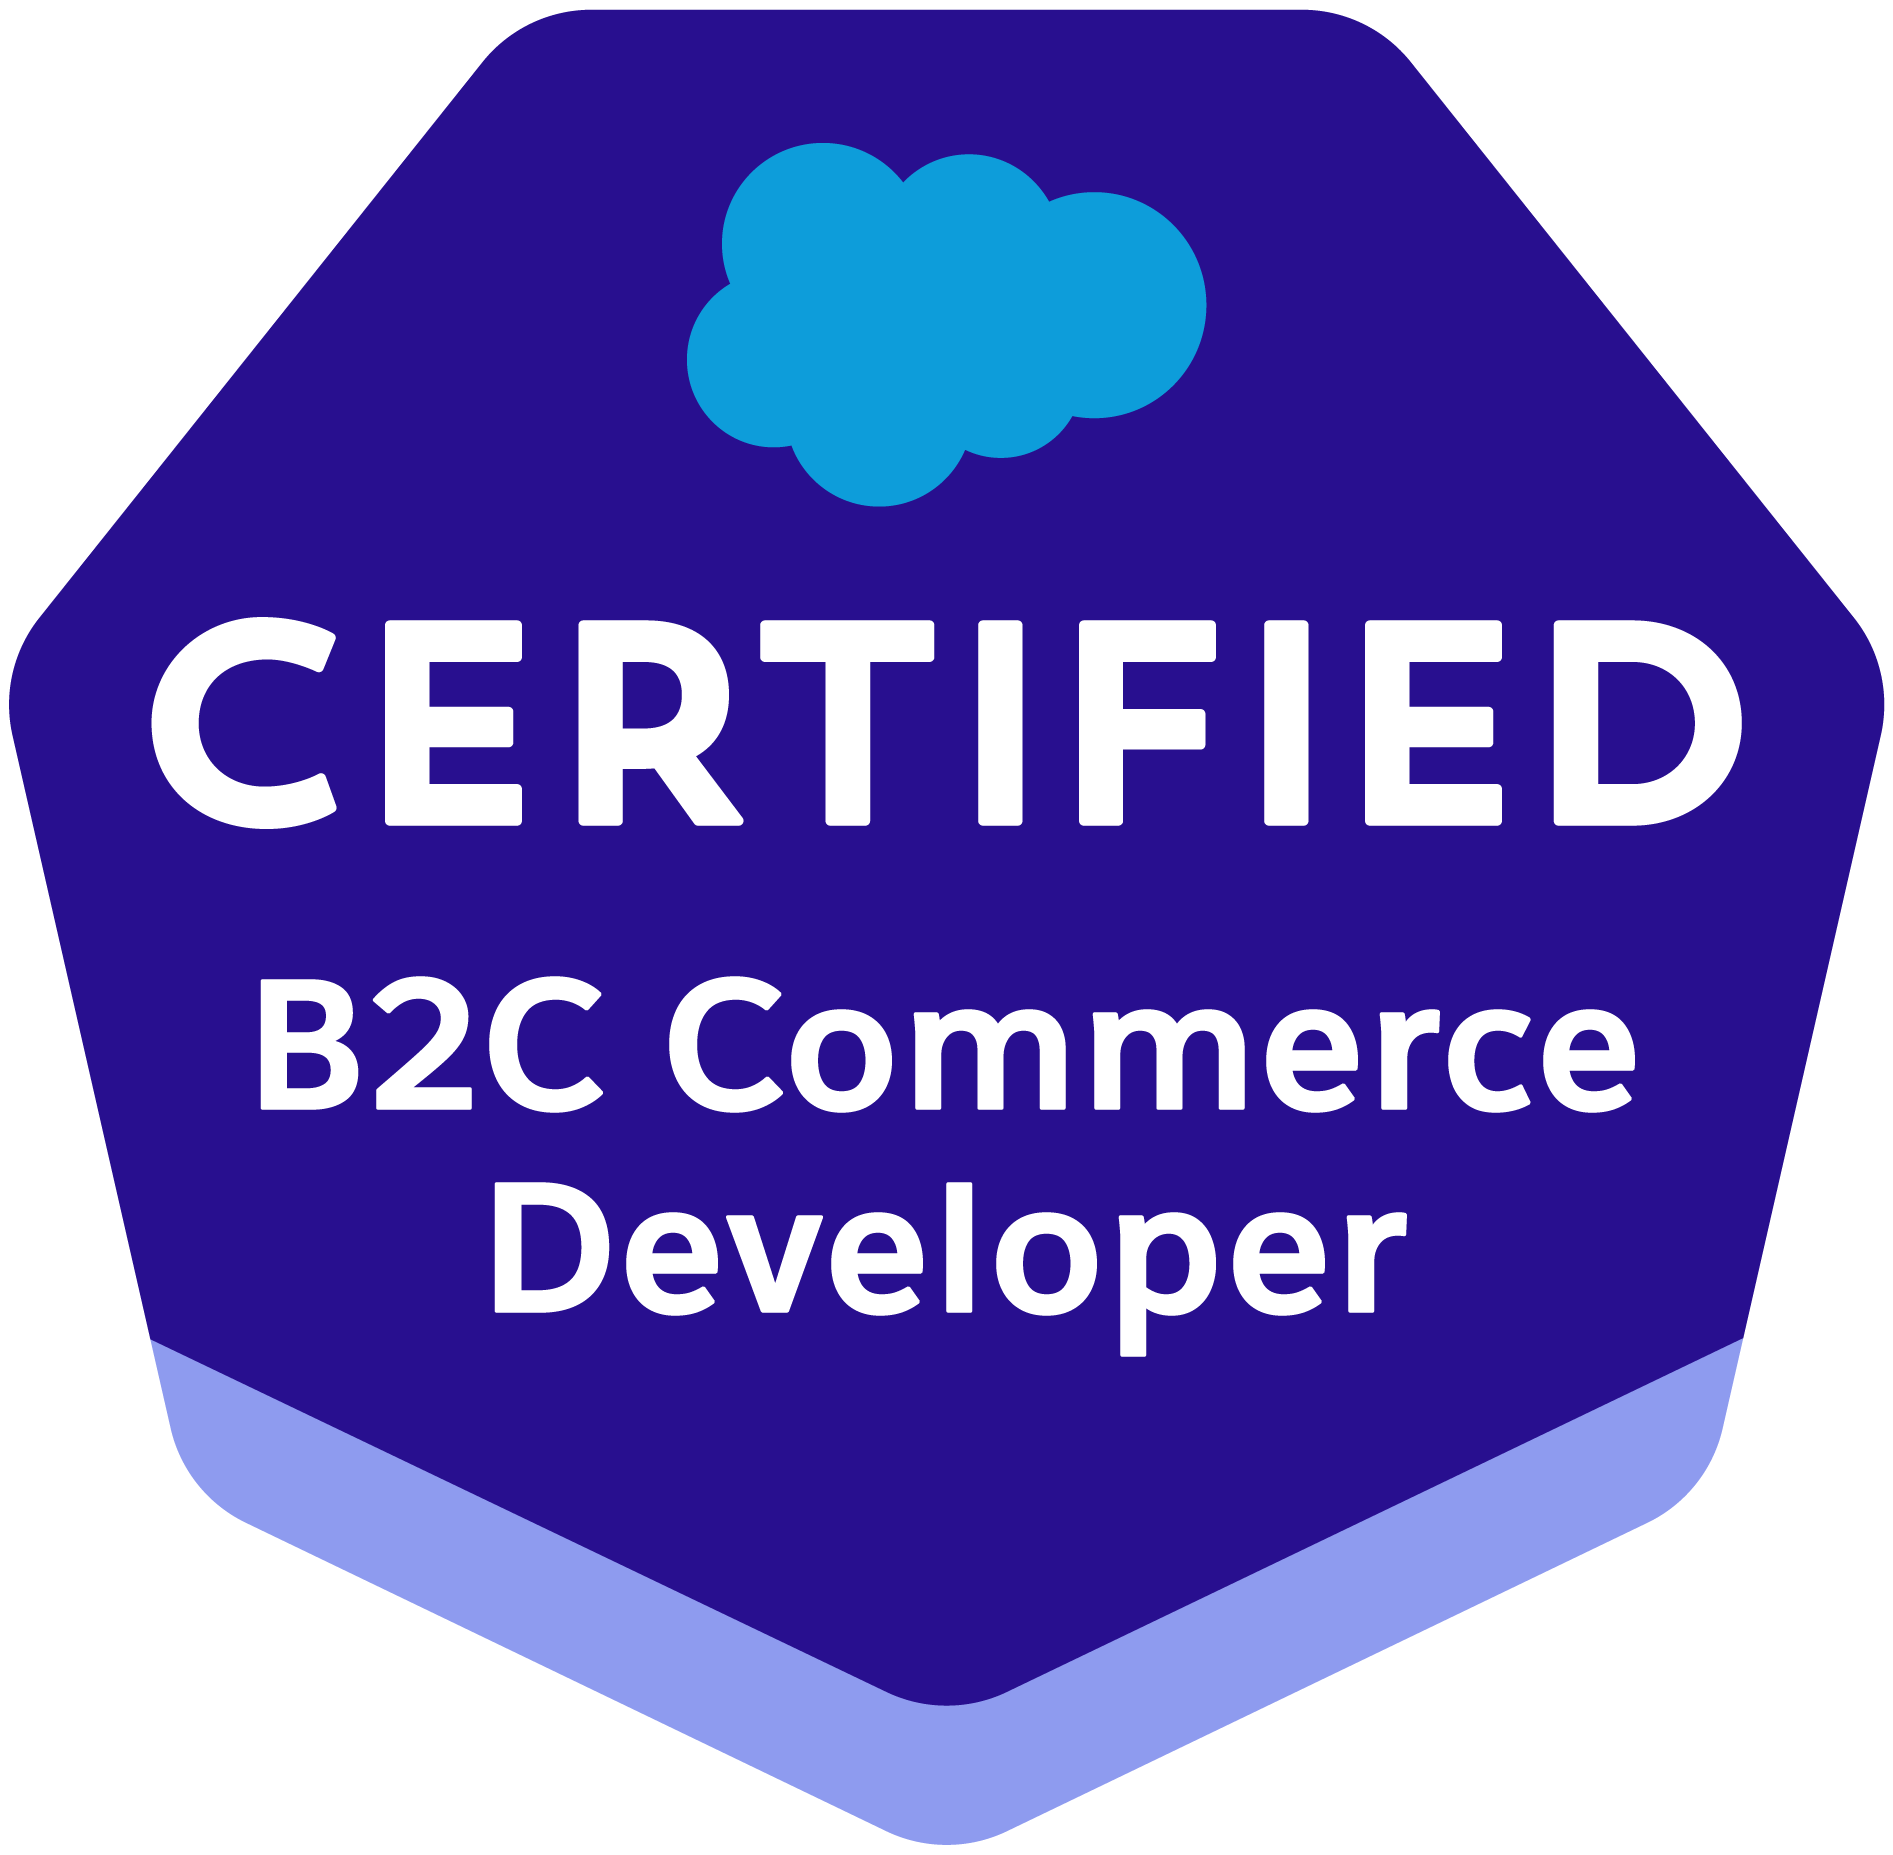
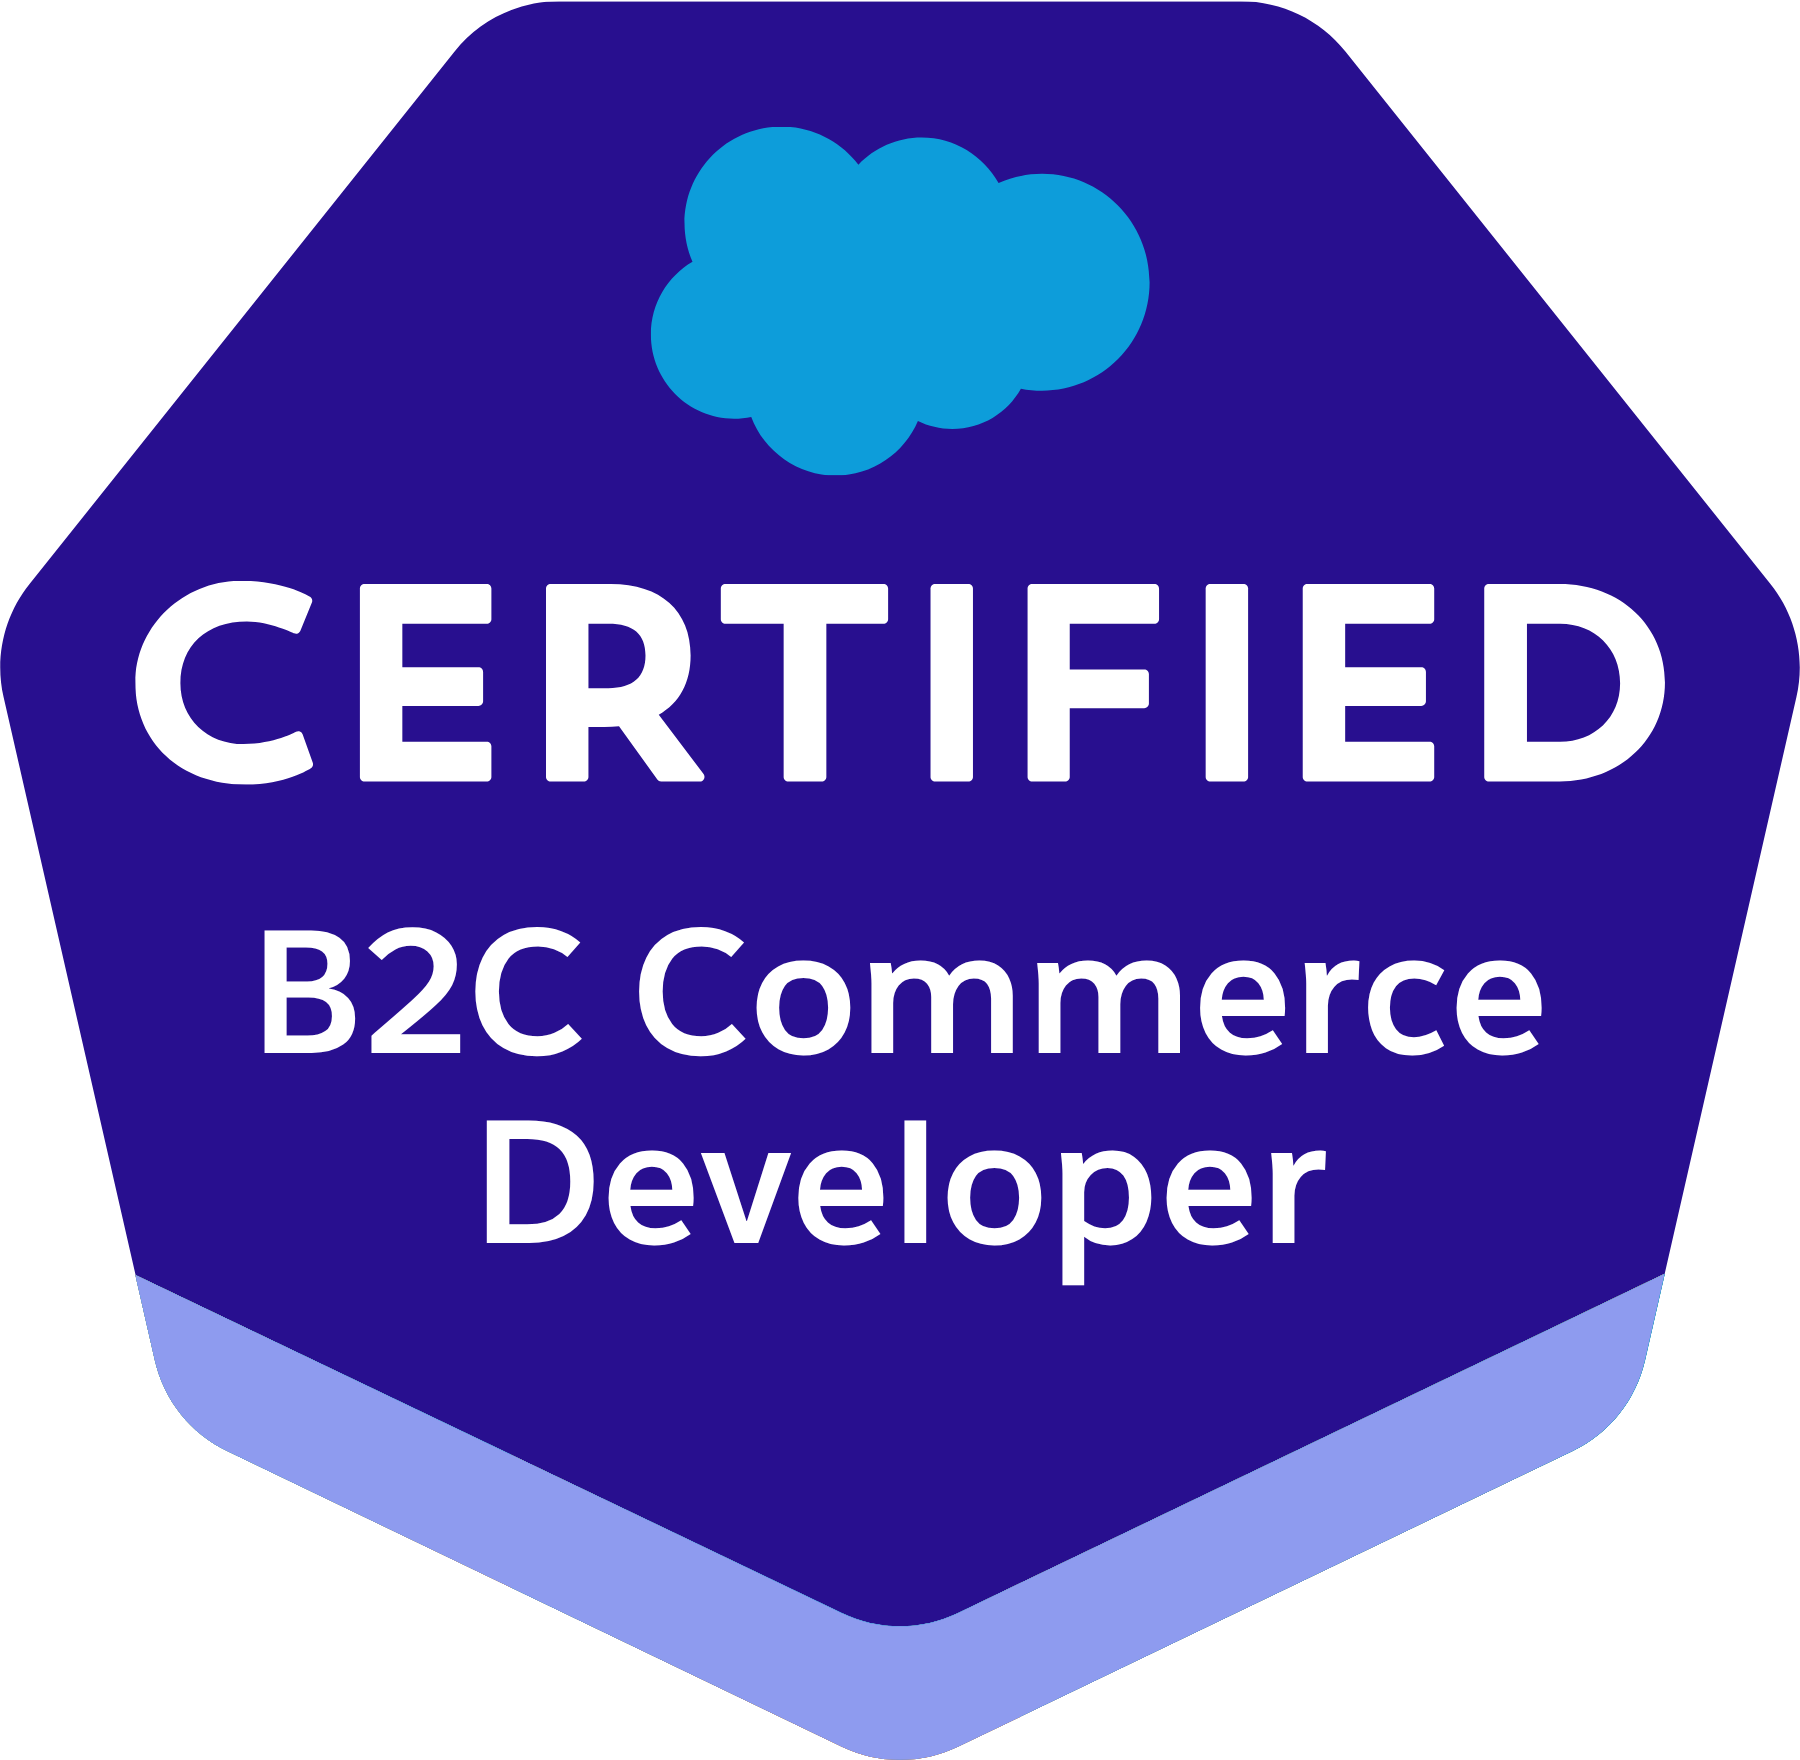
Update Certified badges in README
- Add Salesforce Certified Agentforce Specialist badge
- Replace JavaScript Developer I badge with the renamed JavaScript Developer badge (old badge moved to images/salesforce/old)
- Refresh B2C Commerce Developer badge with the latest official image

Claude-Session: https://claude.ai/code/session_01JyL1U7eayHVgKGBcKRB9vU

diff --git a/README.md b/README.md
@@ -12,9 +12,10 @@
 
 ## 🏅 Certified
 
+<code><img src="https://raw.githubusercontent.com/75asa/75asa/master/images/salesforce/SF-Certified_Agentforce-Specialist.png" height="100" alt="Salesforce Certified Agentforce Specialist"></code>
 <code><img src="https://raw.githubusercontent.com/75asa/75asa/master/images/salesforce/SF-Certified_Administrator.png" height="100" alt="Salesforce Certified Administrator"></code>
 <code><img src="https://raw.githubusercontent.com/75asa/75asa/master/images/salesforce/SF-Certified_B2C-Commerce-Developer.png" height="100" alt="Salesforce Certified B2C Commerce Developer"></code>
-<code><img src="https://raw.githubusercontent.com/75asa/75asa/master/images/salesforce/SF-Certified_JavaScript-Developer-I.png" height="100" alt="Salesforce Certified JavaScript Developer"></code>
+<code><img src="https://raw.githubusercontent.com/75asa/75asa/master/images/salesforce/SF-Certified_JavaScript-Developer.png" height="100" alt="Salesforce Certified JavaScript Developer"></code>
 <code><img src="https://raw.githubusercontent.com/75asa/75asa/master/images/salesforce/Certified_Heroku-Architect.png" height="100" alt="Salesforce Certified Heroku Architect"></code>
 
 ![footer](https://capsule-render.vercel.app/api?type=waving&color=gradient&height=80&section=footer)
